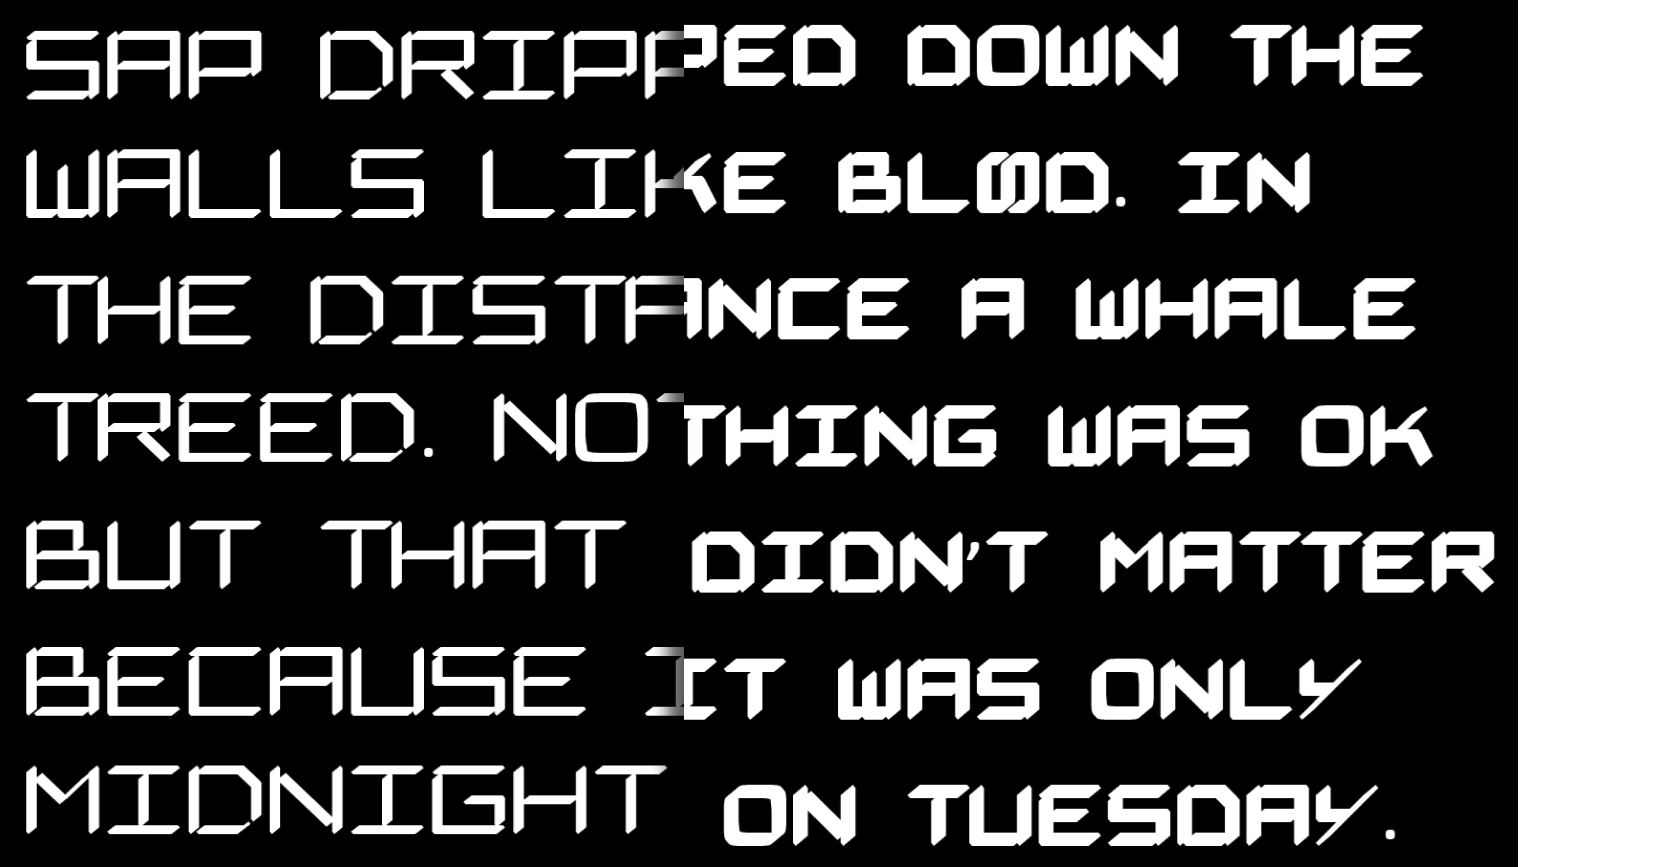
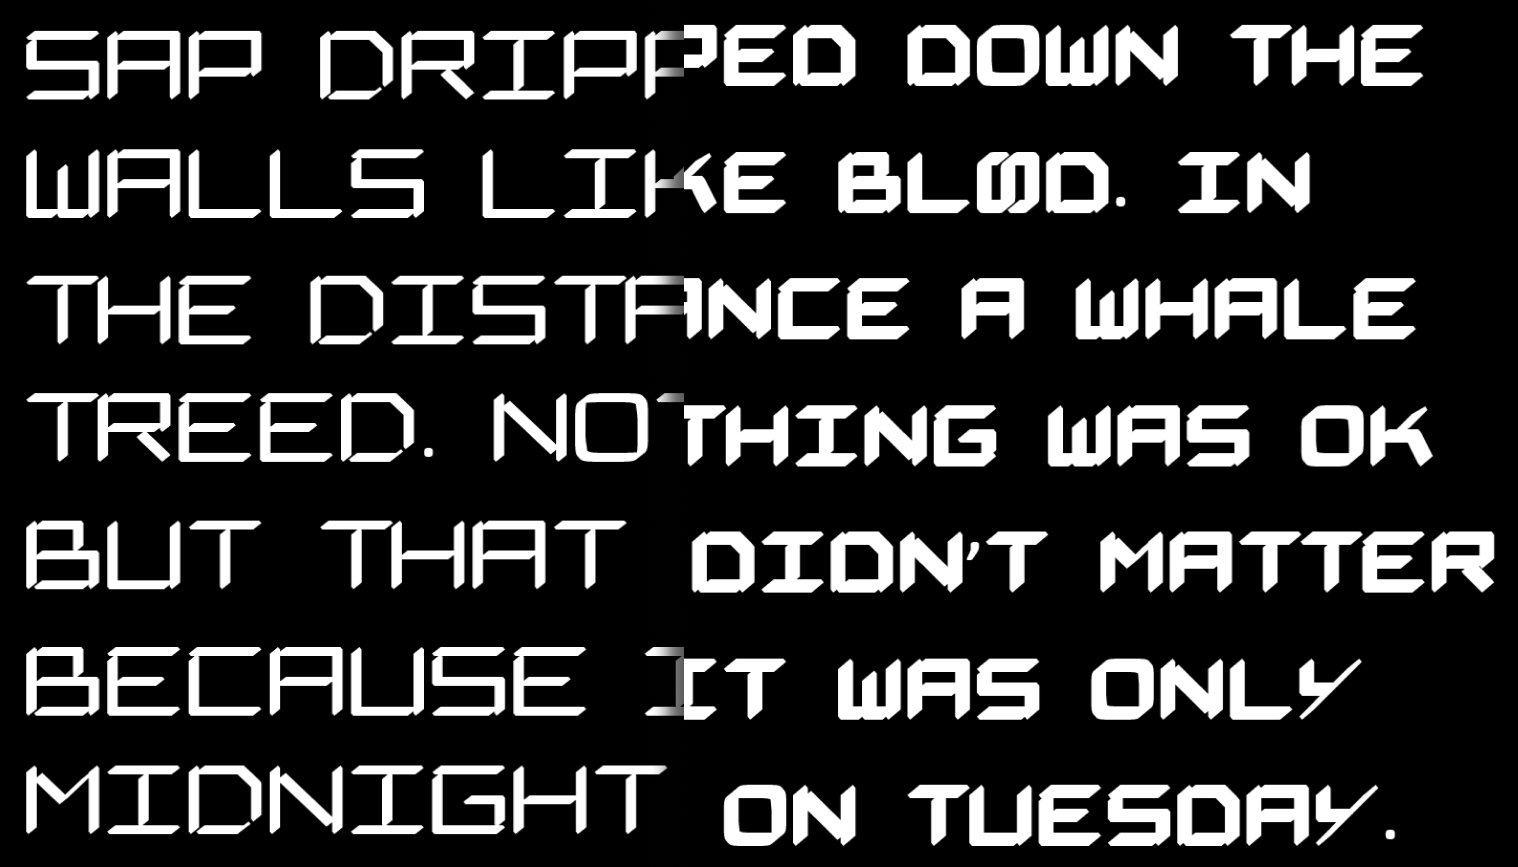
GITBOOK-118: No subject

diff --git a/gitbook-homesite/portfolio/font-design/README.md b/gitbook-homesite/portfolio/font-design/README.md
@@ -38,7 +38,7 @@ You may be waiting for the ICJ to declare that they are committing a genocide. *
 
 _For more info, and to see its development, click each font to visit its dedicated page._
 
-<table data-card-size="large" data-view="cards" data-full-width="false"><thead><tr><th></th><th>Supported scripts</th><th>Other glyphs</th><th></th><th></th><th data-hidden>Version</th><th data-hidden>Latest release</th><th data-hidden></th><th data-hidden></th><th data-hidden>Inception</th><th data-hidden data-card-cover data-type="image">Image</th><th data-hidden data-card-target data-type="content-ref">Portfolio page</th><th data-hidden data-type="image">Cover image (dark)</th><th data-hidden data-type="image">Cover image (dark)</th><th data-hidden data-card-cover-dark data-type="image">Cover image (dark)</th></tr></thead><tbody><tr><td><h4><strong>MapLetter 🔒</strong></h4></td><td>Latin</td><td>Numbers, dozenal numerals, standard punctuation, common text symbols</td><td>2025 October</td><td><em>Private commission for cartographic designer.</em> </td><td>3.006</td><td></td><td></td><td></td><td></td><td><a href="../../.gitbook/assets/Yu the sheep in MapLetter 3.png">Yu the sheep in MapLetter 3.png</a></td><td><a href="mapletter.md">mapletter.md</a></td><td><a href="../../.gitbook/assets/Yu the sheep in MapLetter 3 _Dark.png">Yu the sheep in MapLetter 3 _Dark.png</a></td><td><a href="../../.gitbook/assets/Yu the sheep in MapLetter 3 _Dark.png">Yu the sheep in MapLetter 3 _Dark.png</a></td><td><a href="../../.gitbook/assets/Yu the sheep in MapLetter 3 _Dark.png">Yu the sheep in MapLetter 3 _Dark.png</a></td></tr><tr><td><h4><strong>Baseline Square</strong></h4></td><td>Latin, NewEng</td><td>Dozenal numerals</td><td>2025 September</td><td>GitHub.com/fazzaan/ not uploaded yet</td><td></td><td></td><td></td><td></td><td></td><td><a href="../../.gitbook/assets/Artemis in Baseline Square _Light.png">Artemis in Baseline Square _Light.png</a></td><td><a href="baseline-square.md">baseline-square.md</a></td><td><a href="../../.gitbook/assets/Artemis in Baseline Square _Dark.png">Artemis in Baseline Square _Dark.png</a></td><td><a href="../../.gitbook/assets/Artemis in Baseline Square _Dark.png">Artemis in Baseline Square _Dark.png</a></td><td><a href="../../.gitbook/assets/Artemis in Baseline Square _Dark.png">Artemis in Baseline Square _Dark.png</a></td></tr><tr><td><h4><strong>Abjoid Latinate One</strong></h4></td><td>Abjoid conscript, AbjAng. Indirectly: Latin, English, NewEng.</td><td></td><td>2025 August</td><td><a href="https://github.com/fazzaan/font-abjoid-latinate-one">GitHub.com/fazzaan/ Abjoid Latinate One</a> </td><td></td><td></td><td></td><td></td><td></td><td><a href="../../.gitbook/assets/Dancing Queen in Abjoid Latinate One _Light.png">Dancing Queen in Abjoid Latinate One _Light.png</a></td><td><a href="abjoid-latinate-one.md">abjoid-latinate-one.md</a></td><td></td><td></td><td><a href="../../.gitbook/assets/Dancing Queen in Abjoid Latinate One _Dark.png">Dancing Queen in Abjoid Latinate One _Dark.png</a></td></tr><tr><td><h4><strong>Abjoid Blocky One</strong></h4></td><td>Abjoid conscript, AbjAng. Indirectly: Latin, English, NewEng.</td><td></td><td>2025 August</td><td><a href="https://github.com/fazzaan/font-abjad-blocky-one">GitHub.com/fazzaan/ Abjad Blocky One</a> </td><td></td><td></td><td></td><td></td><td></td><td><a href="../../.gitbook/assets/Dancing Queen in Abjoid Blocky One _Light.png">Dancing Queen in Abjoid Blocky One _Light.png</a></td><td><a href="abjoid-blocky-one.md">abjoid-blocky-one.md</a></td><td></td><td><a href="../../.gitbook/assets/Dancing Queen in Abjoid Blocky One _Dark.png">Dancing Queen in Abjoid Blocky One _Dark.png</a></td><td><a href="../../.gitbook/assets/Dancing Queen in Abjoid Blocky One _Dark.png">Dancing Queen in Abjoid Blocky One _Dark.png</a></td></tr><tr><td><h4><strong>Dragonia family</strong> 🔒 <em>nyetreleased</em></h4></td><td>Latin</td><td>No numbers, diacritics or symbols yet. Minimal punctuation.</td><td>2025</td><td><em>Private commission for game developer.</em> </td><td></td><td></td><td></td><td></td><td></td><td><a href="../../.gitbook/assets/Dancing Queen in Dragonia Quill Standard _Light.png">Dancing Queen in Dragonia Quill Standard _Light.png</a></td><td><a href="dragonia.md">dragonia.md</a></td><td></td><td></td><td><a href="../../.gitbook/assets/Dancing Queen in Dragonia Quill Standard _Dark.png">Dancing Queen in Dragonia Quill Standard _Dark.png</a></td></tr><tr><td><h4><strong>Dots N Lines</strong></h4></td><td>Latin, NewEng</td><td>No numbers, diacritics, symbols or punctuation</td><td>2025</td><td><a href="https://github.com/fazzaan/font-dotsnlines">GitHub.com/fazzaan/ DotsNLines</a> </td><td>1.11</td><td>12 March 2025</td><td>Bēhance link</td><td>Font sites</td><td>10 March 2025</td><td><a href="../../.gitbook/assets/Space in Dots N Line _Light.png">Space in Dots N Line _Light.png</a></td><td><a href="dots-n-lines.md">dots-n-lines.md</a></td><td></td><td></td><td><a href="../../.gitbook/assets/Space in Dots N Line _Dark.png">Space in Dots N Line _Dark.png</a></td></tr><tr><td><h4><strong>BlockTrain 🔒</strong></h4></td><td>Alternative script for Latin letters</td><td>Numbers, basic symbols, vowels as diacritics, Dozenal (dex 9+1 and elf 9+2)</td><td>2025</td><td><em>Private commission for game developer.</em> </td><td></td><td></td><td>Bēhance link</td><td>Font sites</td><td>March 2025</td><td><a href="../../.gitbook/assets/BlockTrain Both Cover _Light.png">BlockTrain Both Cover _Light.png</a></td><td><a href="blocktrain.md">blocktrain.md</a></td><td></td><td></td><td><a href="../../.gitbook/assets/BlockTrain Both Cover _Dark.png">BlockTrain Both Cover _Dark.png</a></td></tr><tr><td><h4><strong>TallThin</strong></h4></td><td>Latin, NewEng, common diacritics, extended diacritics</td><td>No numbers, punctuation or basic symbols</td><td>2024</td><td><a href="https://github.com/fazzaan/font-tallthin">GitHub/fazzaan/ TallThin</a></td><td>2.001</td><td>30th Oct 2024</td><td><em>Bēhance link</em></td><td>Font sites</td><td>October 2024</td><td><a href="../../.gitbook/assets/Tree Gold in TallThin _Light.png">Tree Gold in TallThin _Light.png</a></td><td><a href="tallthin.md">tallthin.md</a></td><td></td><td></td><td><a href="../../.gitbook/assets/Tree Gold in TallThin _Dark.png">Tree Gold in TallThin _Dark.png</a></td></tr><tr><td><h4><strong>Runic</strong></h4></td><td>Latin, NewEng, common diacritics, extended diacritics</td><td>No numbers, punctuation or basic symbols</td><td>2024</td><td><a href="https://github.com/fazzaan/font-runic">GitHub/fazzaan/ Runic</a></td><td>1.003</td><td>5th Oct 2024</td><td><em>Bēhance link</em></td><td><em>Font sites</em></td><td>October 2024</td><td><a href="../../.gitbook/assets/Runic Font Cover landscape.svg">Runic Font Cover landscape.svg</a></td><td><a href="runic.md">runic.md</a></td><td></td><td></td><td><a href="../../.gitbook/assets/People Walking in NewEng Rune _Dark.png">People Walking in NewEng Rune _Dark.png</a></td></tr><tr><td><h4><strong>Hangeulic</strong></h4></td><td>Latin, NewEng <em>(no diacritics yet)</em></td><td>No numbers, punctuation or basic symbols</td><td>2024</td><td><a href="https://github.com/fazzaan/font-hangeulic">GitHub/fazzaan/ Hangeulic</a></td><td>1.005</td><td>24th May 2024</td><td>Behance</td><td>Font sites</td><td>May 2024</td><td><a href="../../.gitbook/assets/NewEng Hangeulic Both Cover _Light.png">NewEng Hangeulic Both Cover _Light.png</a></td><td><a href="hangeulic.md">hangeulic.md</a></td><td></td><td></td><td><a href="../../.gitbook/assets/NewEng Hangeulic Both Cover _Dark.png">NewEng Hangeulic Both Cover _Dark.png</a></td></tr><tr><td><h4><strong>Thaiic</strong></h4></td><td>Latin, NewEng <em>(not all diacritics yet)</em></td><td>No numbers, punctuation or basic symbols</td><td>2024</td><td><a href="https://github.com/fazzaan/font-thaiic">GitHub/fazzaan/ Thaiic</a></td><td>1.003</td><td>5th Oct 2024</td><td>behance</td><td>font sites</td><td>May 2024</td><td><a href="../../.gitbook/assets/Thaiic Font Cover landscape.svg">Thaiic Font Cover landscape.svg</a></td><td><a href="thaiic.md">thaiic.md</a></td><td></td><td></td><td></td></tr><tr><td><h4><strong>Chipboard Black</strong></h4></td><td>Latin, Greek</td><td>No numbers, punctuation or basic symbols</td><td>2021</td><td><a href="https://github.com/fazzaan/font-chipboard">GitHub/fazzaan/ ChipBoard</a></td><td>1.100</td><td>16th Jul 2021</td><td>Behance</td><td>font sites</td><td>July 2021</td><td><a href="../../.gitbook/assets/Chipboard Black Font Cover landscape.svg">Chipboard Black Font Cover landscape.svg</a></td><td><a href="chipboard-black.md">chipboard-black.md</a></td><td></td><td></td><td></td></tr><tr><td><h4><strong>Leaf Tech</strong></h4></td><td>Latin, Vietnamese <em>(all tones)</em></td><td>Numbers, some punctuation and some basic symbols</td><td>2021</td><td><a href="https://github.com/fazzaan/font-leaftech">GitHub/fazzaan/ LeafTech</a></td><td>1.371</td><td>28th Jul 2021</td><td>behance</td><td>font sites</td><td>March 2021</td><td><a href="../../.gitbook/assets/Leaf Tech Font Cover landscape.svg">Leaf Tech Font Cover landscape.svg</a></td><td><a href="leaf-tech.md">leaf-tech.md</a></td><td></td><td></td><td></td></tr><tr><td><h4><strong>Hexic Vert</strong></h4></td><td></td><td></td><td>2019</td><td></td><td></td><td></td><td></td><td></td><td></td><td></td><td><a href="hexic-vert.md">hexic-vert.md</a></td><td></td><td></td><td></td></tr></tbody></table>
+<table data-card-size="large" data-view="cards" data-full-width="false"><thead><tr><th></th><th>Supported scripts</th><th>Other glyphs</th><th></th><th></th><th data-hidden>Version</th><th data-hidden>Latest release</th><th data-hidden></th><th data-hidden></th><th data-hidden>Inception</th><th data-hidden data-card-cover data-type="image">Image</th><th data-hidden data-card-target data-type="content-ref">Portfolio page</th><th data-hidden data-type="image">Cover image (dark)</th><th data-hidden data-type="image">Cover image (dark)</th><th data-hidden data-card-cover-dark data-type="image">Cover image (dark)</th></tr></thead><tbody><tr><td><h4><strong>MapLetter 🔒</strong></h4></td><td>Latin</td><td>Numbers, dozenal numerals, standard punctuation, common text symbols</td><td>2025 October</td><td><em>Private commission for cartographic designer.</em> </td><td>3.006</td><td></td><td></td><td></td><td></td><td><a href="../../.gitbook/assets/Yu the sheep in MapLetter 3.png">Yu the sheep in MapLetter 3.png</a></td><td><a href="mapletter.md">mapletter.md</a></td><td><a href="../../.gitbook/assets/Yu the sheep in MapLetter 3 _Dark.png">Yu the sheep in MapLetter 3 _Dark.png</a></td><td><a href="../../.gitbook/assets/Yu the sheep in MapLetter 3 _Dark.png">Yu the sheep in MapLetter 3 _Dark.png</a></td><td><a href="../../.gitbook/assets/Yu the sheep in MapLetter 3 _Dark.png">Yu the sheep in MapLetter 3 _Dark.png</a></td></tr><tr><td><h4><strong>Baseline Square</strong></h4></td><td>Latin, NewEng</td><td>Dozenal numerals</td><td>2025 September</td><td>GitHub.com/fazzaan/ not uploaded yet</td><td></td><td></td><td></td><td></td><td></td><td><a href="../../.gitbook/assets/Artemis in Baseline Square _Light.png">Artemis in Baseline Square _Light.png</a></td><td><a href="baseline-square.md">baseline-square.md</a></td><td><a href="../../.gitbook/assets/Artemis in Baseline Square _Dark.png">Artemis in Baseline Square _Dark.png</a></td><td><a href="../../.gitbook/assets/Artemis in Baseline Square _Dark.png">Artemis in Baseline Square _Dark.png</a></td><td><a href="../../.gitbook/assets/Artemis in Baseline Square _Dark.png">Artemis in Baseline Square _Dark.png</a></td></tr><tr><td><h4><strong>Abjoid Latinate One</strong></h4></td><td>Abjoid conscript, AbjAng. Indirectly: Latin, English, NewEng.</td><td></td><td>2025 August</td><td><a href="https://github.com/fazzaan/font-abjoid-latinate-one">GitHub.com/fazzaan/ Abjoid Latinate One</a> </td><td></td><td></td><td></td><td></td><td></td><td><a href="../../.gitbook/assets/Dancing Queen in Abjoid Latinate One _Light.png">Dancing Queen in Abjoid Latinate One _Light.png</a></td><td><a href="abjoid-latinate-one.md">abjoid-latinate-one.md</a></td><td></td><td></td><td><a href="../../.gitbook/assets/Dancing Queen in Abjoid Latinate One _Dark.png">Dancing Queen in Abjoid Latinate One _Dark.png</a></td></tr><tr><td><h4><strong>Abjoid Blocky One</strong></h4></td><td>Abjoid conscript, AbjAng. Indirectly: Latin, English, NewEng.</td><td></td><td>2025 August</td><td><a href="https://github.com/fazzaan/font-abjad-blocky-one">GitHub.com/fazzaan/ Abjad Blocky One</a> </td><td></td><td></td><td></td><td></td><td></td><td><a href="../../.gitbook/assets/Dancing Queen in Abjoid Blocky One _Light.png">Dancing Queen in Abjoid Blocky One _Light.png</a></td><td><a href="abjoid-blocky-one.md">abjoid-blocky-one.md</a></td><td></td><td><a href="../../.gitbook/assets/Dancing Queen in Abjoid Blocky One _Dark.png">Dancing Queen in Abjoid Blocky One _Dark.png</a></td><td><a href="../../.gitbook/assets/Dancing Queen in Abjoid Blocky One _Dark.png">Dancing Queen in Abjoid Blocky One _Dark.png</a></td></tr><tr><td><h4><strong>Dragonia family</strong> 🔒 <em>nyetreleased</em></h4></td><td>Latin</td><td>No numbers, diacritics or symbols yet. Minimal punctuation.</td><td>2025</td><td><em>Private commission for game developer.</em> </td><td></td><td></td><td></td><td></td><td></td><td><a href="../../.gitbook/assets/Dancing Queen in Dragonia Quill Standard _Light.png">Dancing Queen in Dragonia Quill Standard _Light.png</a></td><td><a href="dragonia.md">dragonia.md</a></td><td></td><td></td><td><a href="../../.gitbook/assets/Dancing Queen in Dragonia Quill Standard _Dark.png">Dancing Queen in Dragonia Quill Standard _Dark.png</a></td></tr><tr><td><h4><strong>Dots N Lines</strong></h4></td><td>Latin, NewEng</td><td>No numbers, diacritics, symbols or punctuation</td><td>2025</td><td><a href="https://github.com/fazzaan/font-dotsnlines">GitHub.com/fazzaan/ DotsNLines</a> </td><td>1.11</td><td>12 March 2025</td><td>Bēhance link</td><td>Font sites</td><td>10 March 2025</td><td><a href="../../.gitbook/assets/Space in Dots N Line _Light.png">Space in Dots N Line _Light.png</a></td><td><a href="dots-n-lines.md">dots-n-lines.md</a></td><td></td><td></td><td><a href="../../.gitbook/assets/Space in Dots N Line _Dark.png">Space in Dots N Line _Dark.png</a></td></tr><tr><td><h4><strong>BlockTrain 🔒</strong></h4></td><td>Alternative script for Latin letters</td><td>Numbers, basic symbols, vowels as diacritics, Dozenal (dex 9+1 and elf 9+2)</td><td>2025</td><td><em>Private commission for game developer.</em> </td><td></td><td></td><td>Bēhance link</td><td>Font sites</td><td>March 2025</td><td><a href="../../.gitbook/assets/BlockTrain Both Cover _Light.png">BlockTrain Both Cover _Light.png</a></td><td><a href="blocktrain.md">blocktrain.md</a></td><td></td><td></td><td><a href="../../.gitbook/assets/BlockTrain Both Cover _Dark.png">BlockTrain Both Cover _Dark.png</a></td></tr><tr><td><h4><strong>TallThin</strong></h4></td><td>Latin, NewEng, common diacritics, extended diacritics</td><td>No numbers, punctuation or basic symbols</td><td>2024</td><td><a href="https://github.com/fazzaan/font-tallthin">GitHub/fazzaan/ TallThin</a></td><td>2.001</td><td>30th Oct 2024</td><td><em>Bēhance link</em></td><td>Font sites</td><td>October 2024</td><td><a href="../../.gitbook/assets/Tree Gold in TallThin _Light.png">Tree Gold in TallThin _Light.png</a></td><td><a href="tallthin.md">tallthin.md</a></td><td></td><td></td><td><a href="../../.gitbook/assets/Tree Gold in TallThin _Dark.png">Tree Gold in TallThin _Dark.png</a></td></tr><tr><td><h4><strong>Runic</strong></h4></td><td>Latin, NewEng, common diacritics, extended diacritics</td><td>No numbers, punctuation or basic symbols</td><td>2024</td><td><a href="https://github.com/fazzaan/font-runic">GitHub/fazzaan/ Runic</a></td><td>1.003</td><td>5th Oct 2024</td><td><em>Bēhance link</em></td><td><em>Font sites</em></td><td>October 2024</td><td><a href="../../.gitbook/assets/People Walking in NewEng Rune _Light.png">People Walking in NewEng Rune _Light.png</a></td><td><a href="runic.md">runic.md</a></td><td></td><td></td><td><a href="../../.gitbook/assets/People Walking in NewEng Rune _Dark.png">People Walking in NewEng Rune _Dark.png</a></td></tr><tr><td><h4><strong>Hangeulic</strong></h4></td><td>Latin, NewEng <em>(no diacritics yet)</em></td><td>No numbers, punctuation or basic symbols</td><td>2024</td><td><a href="https://github.com/fazzaan/font-hangeulic">GitHub/fazzaan/ Hangeulic</a></td><td>1.005</td><td>24th May 2024</td><td>Behance</td><td>Font sites</td><td>May 2024</td><td data-object-fit="cover"><a href="../../.gitbook/assets/NewEng Hangeulic Both Cover _Light.png">NewEng Hangeulic Both Cover _Light.png</a></td><td><a href="hangeulic.md">hangeulic.md</a></td><td></td><td></td><td><a href="../../.gitbook/assets/NewEng Hangeulic Both Cover _Dark.png">NewEng Hangeulic Both Cover _Dark.png</a></td></tr><tr><td><h4><strong>Thaiic</strong></h4></td><td>Latin, NewEng <em>(not all diacritics yet)</em></td><td>No numbers, punctuation or basic symbols</td><td>2024</td><td><a href="https://github.com/fazzaan/font-thaiic">GitHub/fazzaan/ Thaiic</a></td><td>1.003</td><td>5th Oct 2024</td><td>behance</td><td>font sites</td><td>May 2024</td><td><a href="../../.gitbook/assets/Sap Dripped in NewEng Thaiic _Light.png">Sap Dripped in NewEng Thaiic _Light.png</a></td><td><a href="thaiic.md">thaiic.md</a></td><td></td><td></td><td><a href="../../.gitbook/assets/Sap Dripped in NewEng Thaiic _Dark.png">Sap Dripped in NewEng Thaiic _Dark.png</a></td></tr><tr><td><h4><strong>Chipboard Black</strong></h4></td><td>Latin, Greek</td><td>No numbers, punctuation or basic symbols</td><td>2021</td><td><a href="https://github.com/fazzaan/font-chipboard">GitHub/fazzaan/ ChipBoard</a></td><td>1.100</td><td>16th Jul 2021</td><td>Behance</td><td>font sites</td><td>July 2021</td><td><a href="../../.gitbook/assets/Chipboard Black Font Cover landscape.svg">Chipboard Black Font Cover landscape.svg</a></td><td><a href="chipboard-black.md">chipboard-black.md</a></td><td></td><td></td><td></td></tr><tr><td><h4><strong>Leaf Tech</strong></h4></td><td>Latin, Vietnamese <em>(all tones)</em></td><td>Numbers, some punctuation and some basic symbols</td><td>2021</td><td><a href="https://github.com/fazzaan/font-leaftech">GitHub/fazzaan/ LeafTech</a></td><td>1.371</td><td>28th Jul 2021</td><td>behance</td><td>font sites</td><td>March 2021</td><td><a href="../../.gitbook/assets/Leaf Tech Font Cover landscape.svg">Leaf Tech Font Cover landscape.svg</a></td><td><a href="leaf-tech.md">leaf-tech.md</a></td><td></td><td></td><td></td></tr><tr><td><h4><strong>Hexic Vert</strong></h4></td><td></td><td></td><td>2019</td><td></td><td></td><td></td><td></td><td></td><td></td><td></td><td><a href="hexic-vert.md">hexic-vert.md</a></td><td></td><td></td><td></td></tr></tbody></table>
 
 ***
 
